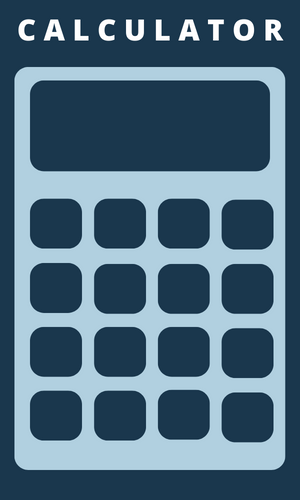
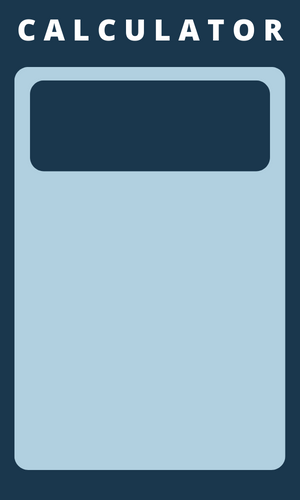
calculator and pomodoro update

Changed region(s): [[0.09, 0.39, 0.93, 0.9]]

diff --git a/extras/calculator_tkinder/main.py b/extras/calculator_tkinder/main.py
@@ -1,19 +1,23 @@
 # Import module
 import tkinter
+import math
 # TODO: round
 # TODO: clear
 # Create object
+
+BLUE = "#1A374D"
 window = tkinter.Tk()
+window.config(bg=BLUE)
 # Adjust size
 window.geometry("300x500")
-bg = tkinter.PhotoImage(file="image.png")
-# Show image using label
-label = tkinter.Label(window, image=bg)
-label.place(x=0, y=0)
 
+canvas = tkinter.Canvas(width=300, height=500, bg=BLUE, highlightthickness=0)
+image = tkinter.PhotoImage(file="image.png")
+canvas.create_image(150, 250, image=image)
+canvas.place(x=0, y=0)
 equation = tkinter.StringVar()
 
-expression_field = tkinter.Label(window, width=10, textvariable=equation)
+expression_field = tkinter.Label(window, width=10, textvariable=equation, bg=BLUE)
 
 expression_field.place(x=160, y=140)
 
@@ -31,28 +35,28 @@ def press(num):
             r = expression.find("-")
             l_n1 = float(expression[0:r])
             l_n2 = float(expression[r+1:])
-            r = round(l_n1 - l_n2, 3)
+            r = round((l_n1 - l_n2), 3)
             expression = str(r)
             return equation.set(r)
         if expression.find("+") > 0:
             r = expression.find("+")
             l_n1 = float(expression[0:r])
             l_n2 = float(expression[r+1:])
-            s = round(l_n1 + l_n2)
+            s = round((l_n1 + l_n2), 3)
             expression = str(s)
             return equation.set(s)
         if expression.find("/") > 0:
             r = expression.find("/")
             l_n1 = float(expression[0:r])
             l_n2 = float(expression[r+1:])
-            d = round(l_n1 / l_n2, 3)
+            d =  round((l_n1 / l_n2), 3)
             expression = str(d)
             return equation.set(d)
         if expression.find("*") > 0:
             r = expression.find("*")
             l_n1 = float(expression[0:r])
             l_n2 = float(expression[r+1:])
-            m = round(l_n1 * l_n2, 3)
+            m = round((l_n1 * l_n2), 3)
             expression = str(m)
             return equation.set(m)
     if num == "cl":
@@ -66,57 +70,57 @@ def press(num):
     # update the expression by using set method
     equation.set(expression)
 
+2
+n0 = tkinter.Button(text="0", width=2, height=2, highlightbackground=BLUE, command=lambda: press(0))
+n0.place(x=25, y=200)
 
-n0 = tkinter.Button(text="0", command=lambda: press(0))
-n0.place(x=35, y=210)
+n1 = tkinter.Button(text="1", width=2, height=2, highlightbackground=BLUE, command=lambda: press(1))
+n1.place(x=90, y=200)
 
-n1 = tkinter.Button(text="1", command=lambda: press(1))
-n1.place(x=100, y=210)
-
-n2 = tkinter.Button(text="2", command=lambda: press(2))
-n2.place(x=165, y=210)
+n2 = tkinter.Button(text="2", width=2, height=2,  highlightbackground=BLUE, command=lambda: press(2))
+n2.place(x=155, y=200)
 
 
-divide = tkinter.Button(text="/", command=lambda: press("/"))
-divide.place(x=230, y=210)
+divide = tkinter.Button(text="/", width=2, height=2, highlightbackground=BLUE, command=lambda: press("/"))
+divide.place(x=220, y=200)
 
-n3 = tkinter.Button(text="3", command=lambda: press(3))
-n3.place(x=35, y=275)
+n3 = tkinter.Button(text="3", width=2, height=2, highlightbackground=BLUE, command=lambda: press(3))
+n3.place(x=30, y=265)
 
-n4 = tkinter.Button(text="4", command=lambda: press(4))
-n4.place(x=100, y=275)
+n4 = tkinter.Button(text="4", width=2, height=2, highlightbackground=BLUE, command=lambda: press(4))
+n4.place(x=90, y=265)
 
-n5 = tkinter.Button(text="5", command=lambda: press(5))
-n5.place(x=165, y=275)
+n5 = tkinter.Button(text="5", width=2, height=2, highlightbackground=BLUE, command=lambda: press(5))
+n5.place(x=155, y=265)
 
-n6 = tkinter.Button(text="6", command=lambda: press(6))
-n6.place(x=165, y=275)
+n6 = tkinter.Button(text="6", width=2, height=2, highlightbackground=BLUE, command=lambda: press(6))
+n6.place(x=155, y=265)
 
-multiply = tkinter.Button(text="*", command=lambda: press("*"))
-multiply.place(x=225, y=275)
+multiply = tkinter.Button(text="*", width=2, height=2, highlightbackground=BLUE, command=lambda: press("*"))
+multiply.place(x=220, y=265)
 
-n7 = tkinter.Button(text="7", command=lambda: press(7))
-n7.place(x=35, y=335)
+n7 = tkinter.Button(text="7", width=2, height=2, highlightbackground=BLUE, command=lambda: press(7))
+n7.place(x=30, y=330)
 
-n8 = tkinter.Button(text="8", command=lambda: press(8))
-n8.place(x=100, y=335)
+n8 = tkinter.Button(text="8", width=2, height=2, highlightbackground=BLUE, command=lambda: press(8))
+n8.place(x=95, y=330)
 
-n9 = tkinter.Button(text="9", command=lambda: press(9))
-n9.place(x=165, y=335)
+n9 = tkinter.Button(text="9", width=2, height=2, highlightbackground=BLUE, command=lambda: press(9))
+n9.place(x=160, y=330)
 
-sum = tkinter.Button(text="+", command=lambda: press("+"))
-sum.place(x=225, y=335)
+sum = tkinter.Button(text="+", width=2, height=2, highlightbackground=BLUE, command=lambda: press("+"))
+sum.place(x=220, y=330)
 
-clear = tkinter.Button(text="cl", command=lambda: press("cl"))
-clear.place(x=35, y=400)
+clear = tkinter.Button(text="cl", width=2, height=2, highlightbackground=BLUE, command=lambda: press("cl"))
+clear.place(x=30, y=395)
 
-n5 = tkinter.Button(text="5", command=lambda: press("5"))
-n5.place(x=100, y=400)
+n5 = tkinter.Button(text="5", width=2, height=2, highlightbackground=BLUE, command=lambda: press("5"))
+n5.place(x=95, y=395)
 
-substra = tkinter.Button(text="-", command=lambda: press("-"))
-substra.place(x=165, y=400)
+substra = tkinter.Button(text="-", width=2, height=2, highlightbackground=BLUE, command=lambda: press("-"))
+substra.place(x=160, y=395)
 
-result = tkinter.Button(text="=", command=lambda: press("="))
-result.place(x=225, y=400)
+result = tkinter.Button(text="=", width=2, height=2, highlightbackground=BLUE, command=lambda: press("="))
+result.place(x=220, y=395)
 
 window.mainloop()

diff --git a/pomodoro/main.py b/pomodoro/main.py
@@ -1,0 +1,82 @@
+from tkinter import *
+import math
+# ---------------------------- CONSTANTS ------------------------------- #
+PINK = "#e2979c"
+RED = "#e7305b"
+GREEN = "#9bdeac"
+YELLOW = "#f7f5dd"
+FONT_NAME = "Courier"
+WORK_MIN = 25
+SHORT_BREAK_MIN = 5
+LONG_BREAK_MIN = 20
+reps = 0
+timer = None
+# ---------------------------- TIMER RESET ------------------------------- #
+def reset_timer():
+    window.after_cancel(timer)
+    title_label.config(text="Timer")
+    canvas.itemconfig(timer_text, text="00:00")
+    check_makrs.config(text="")
+    global  reps
+    reps = 0
+# ---------------------------- TIMER MECHANISM ------------------------------- # 
+def start_timer():
+    global reps
+    reps += 1
+    works_sec = WORK_MIN * 60
+    short_break_sec = SHORT_BREAK_MIN * 60
+    long_break_sec = LONG_BREAK_MIN * 60
+
+    if reps % 8 == 0:
+        count_down(long_break_sec)
+        title_label.config(text="Break", fg=RED)
+    elif reps % 2 == 0:
+        count_down(short_break_sec)
+        title_label.config(text="Break", fg=PINK)
+    else:
+        count_down(works_sec)
+        title_label.config(text="Work", fg=GREEN)
+
+
+# ---------------------------- COUNTDOWN MECHANISM ------------------------------- #
+def count_down(count):
+    count_min = math.floor(count / 60)
+    count_sec = count % 60
+    if count_sec < 10:
+        count_sec = f"0{count_sec}"
+
+    canvas.itemconfig(timer_text, text=f"{count_min}:{count_sec}")
+    if count > 0:
+        global timer
+        timer = window.after(1000, count_down, count - 1)
+    else:
+        start_timer()
+        mark = ""
+        work_sessions = math.floor(reps/2)
+        for _ in range(work_sessions):
+            mark += "✓"
+        check_makrs.config(text=mark)
+
+# ---------------------------- UI SETUP ------------------------------- #
+
+window = Tk()
+window.title("Pomodoro 🍅")
+window.config(padx=100, pady=50, bg=YELLOW)
+
+title_label = Label(text="Timer", fg=GREEN, bg=YELLOW, font=(FONT_NAME, 50))
+title_label.grid(column=1, row=0)
+canvas = Canvas(width=200, height=224, bg=YELLOW, highlightthickness=0)
+tomato_img = PhotoImage(file="tomato.png")
+canvas.create_image(100, 112, image=tomato_img)
+timer_text = canvas.create_text(100, 130, text="00:00", font=(FONT_NAME, 35, "bold"))
+canvas.grid(column=1, row=1)
+
+start_button = Button(text="Start", highlightbackground=YELLOW, command=start_timer)
+start_button.grid(column=0, row=2)
+reset_button = Button(text="Reset", highlightbackground=YELLOW, command=reset_timer)
+reset_button.grid(column=2, row=2)
+
+check_makrs = Label(fg=GREEN, bg=YELLOW, font=(FONT_NAME, 30))
+check_makrs.grid(column=1, row=3)
+
+window.mainloop()
